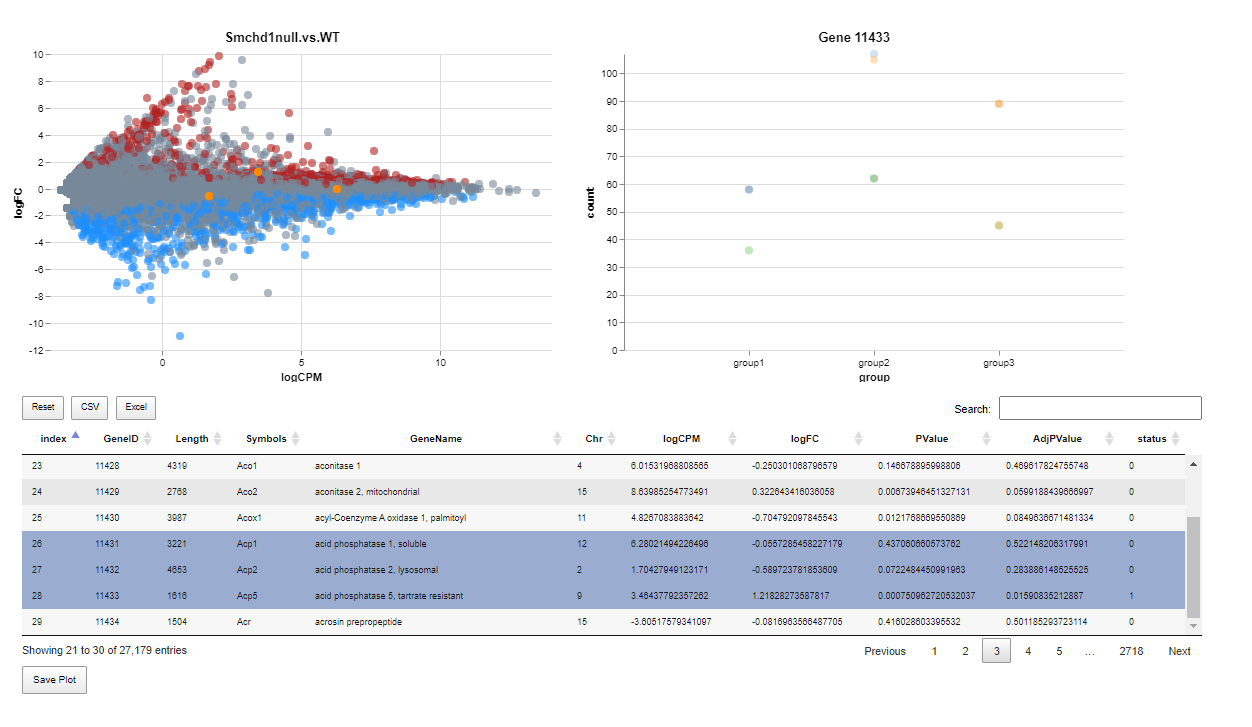
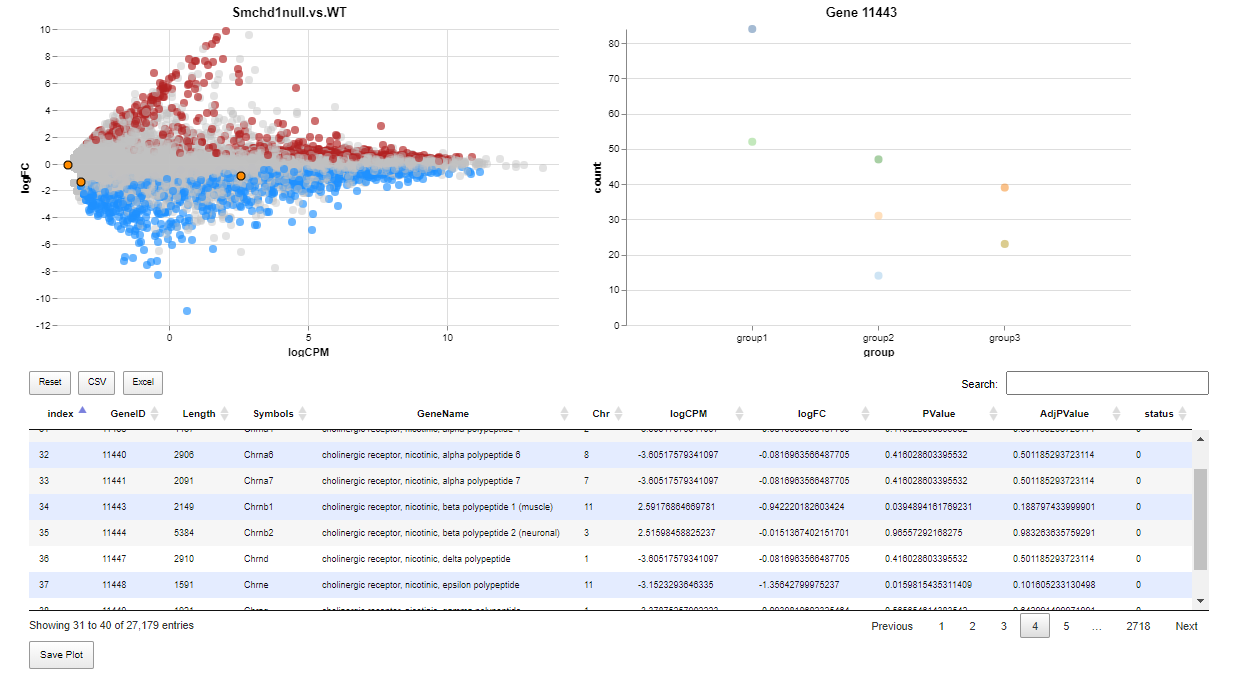
aesthetic update

diff --git a/inst/htmlwidgets/lib/GlimmaV2/XYSpecs.js b/inst/htmlwidgets/lib/GlimmaV2/XYSpecs.js
@@ -93,10 +93,11 @@ function createXYSpec(xyData, xyTable, width, height)
             "x": { "scale": "x", "field": xyData.x },
             "y": { "scale": "y", "field": xyData.y },
             "shape": "circle",
-            "size" : 50,
-            "strokeWidth": 0,
-            "opacity": { "value": 0.6 },
+            "size" : 1,
+            "opacity": [ {"test": "datum.status == 0", "value": 0.45}, {"value": 0.65} ],
             "fill": { "scale": "colour_scale", "field": "status" },
+            "strokeWidth": {"value": 1},
+            "stroke": {"value": "transparent"},
             "tooltip": tooltip
           }
         }
@@ -112,7 +113,8 @@ function createXYSpec(xyData, xyTable, width, height)
             "shape": "circle",
             "size" : 1,
             "fill" : {"value" : "darkorange"},
-            "strokeWidth": { "value": 1.5 },
+            "strokeWidth": { "value": 1 },
+            "stroke": { "value": "black" },
             "opacity": { "value": 1 },
             "tooltip": tooltip
           }

diff --git a/inst/htmlwidgets/lib/datatables/datatables.css b/inst/htmlwidgets/lib/datatables/datatables.css
@@ -897,23 +897,23 @@ label
 
 
 table.dataTable tbody tr.stripe1 {
-  background-color: #E8E8E8;
+  background-color: #ffffff;
 }
 table.dataTable tbody tr.stripe1:hover {
-  background-color: #d1e3f0;
+  background-color: #ebf0fa;
 }
 table.dataTable tbody tr.stripe1.selected {
-  background-color: #9aadd1;
+  background-color: #e4ecff;
 }
 table.dataTable tbody tr.stripe2 {
-  background-color: #f7f7f7;
+  background-color: #f6f6f6;
   border-bottom: solid #c0c0c0;
 }
 table.dataTable tbody tr.stripe2:hover {
-  background-color: #d1e3f0;
+  background-color: #ebf0fa;
 }
 table.dataTable tbody tr.stripe2.selected {
-  background-color: #9aadd1;
+  background-color: #e4ecff;
   border-bottom: solid #c0c0c0;
 }
 

diff --git a/inst/htmlwidgets/glimmaXY.js b/inst/htmlwidgets/glimmaXY.js
@@ -48,7 +48,7 @@ HTMLWidgets.widget({
           expressionContainer.setAttribute("class", "expressionContainer");
           plotContainer.appendChild(expressionContainer);
           xyContainer.setAttribute("class", "xyContainer");
-          countsMatrix = HTMLWidgets.dataframeToD3(x.data.counts)
+          countsMatrix = HTMLWidgets.dataframeToD3(x.data.counts);
           /* TODO: add expressionView located in expressionContainer */
           var expressionSpec = createExpressionSpec(width, height);
           var expressionView = new vega.View(vega.parse(expressionSpec), {
